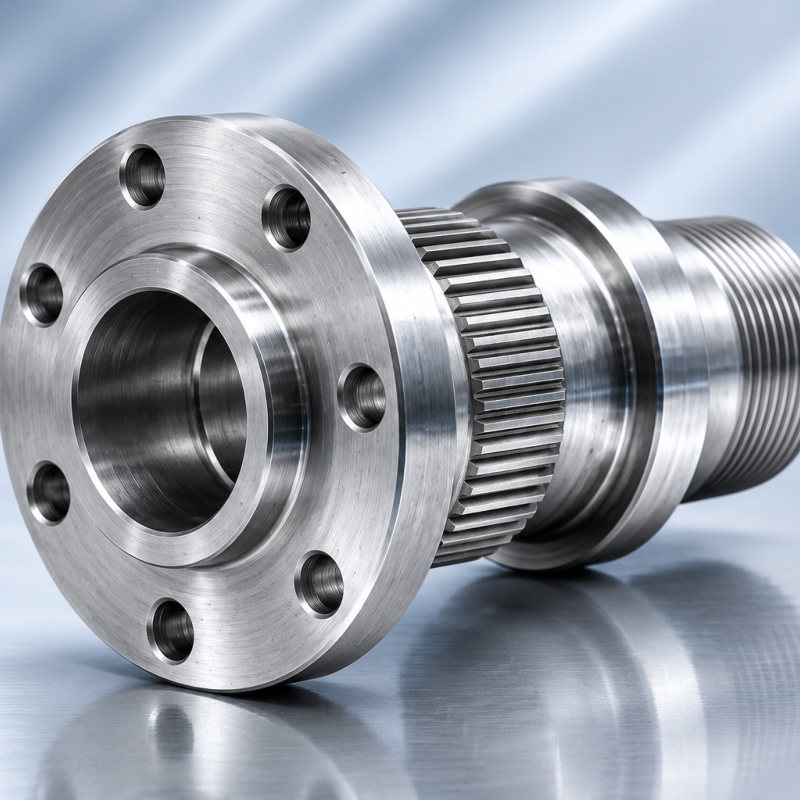
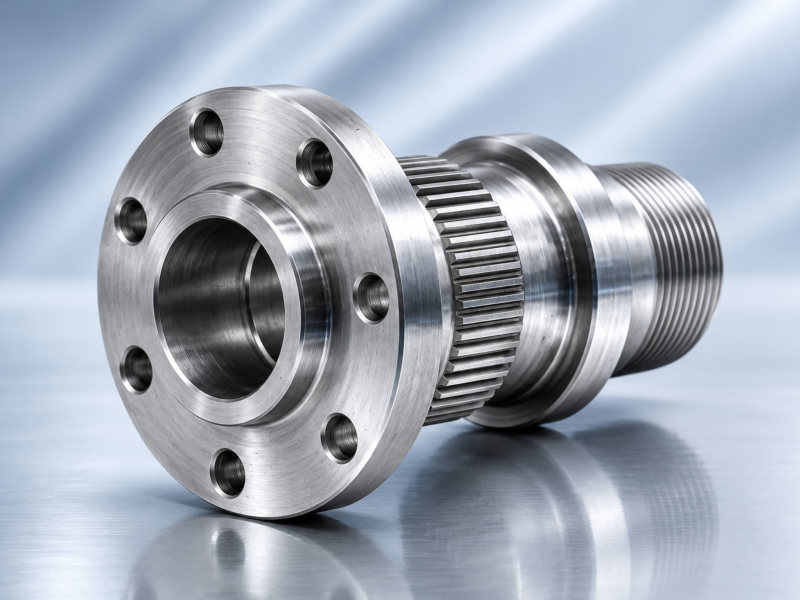
Главная: правки клиента от 10.11 — реалистичные картинки «Как мы работаем», фото в «Мы изготавливаем» целиком, новые фото в «Разделах»

diff --git a/index.html b/index.html
@@ -166,23 +166,23 @@
         </div>
         <div class="make-grid" data-reveal-group>
           <a class="make-card" href="catalog.html#hydraulics" data-reveal>
-            <div class="make-card__photo"><img src="img/products/card/01-uplotneniya.jpg" alt="Уплотнительные кольца из резины и полиуретана" width="800" height="800" loading="lazy"></div>
+            <div class="make-card__photo"><img src="img/products/card/01-uplotneniya.jpg" alt="Уплотнительные кольца из резины и полиуретана" width="800" height="600" loading="lazy"></div>
             <div class="make-card__body"><h3 class="make-card__title" data-i18n="make.1.title">Уплотнения, ремкомплекты, РВД, гидроцилиндры</h3><p class="make-card__sub" data-i18n="make.1.sub">Для гидравлики горной и строительной техники</p></div>
           </a>
           <a class="make-card" href="catalog.html#materials" data-reveal>
-            <div class="make-card__photo"><img src="img/products/card/04-poliuretan-rezina-metall.jpg" alt="Втулка из полиуретана, резиновое уплотнение и стальной фланец" width="800" height="800" loading="lazy"></div>
+            <div class="make-card__photo"><img src="img/products/card/04-poliuretan-rezina-metall.jpg" alt="Втулка из полиуретана, резиновое уплотнение и стальной фланец" width="800" height="600" loading="lazy"></div>
             <div class="make-card__body"><h3 class="make-card__title" data-i18n="make.2.title">Изделия из полиуретана, резины и металла</h3><p class="make-card__sub" data-i18n="make.2.sub">Серийно и штучно, по чертежам заказчика</p></div>
           </a>
           <a class="make-card" href="analogs.html" data-reveal>
-            <div class="make-card__photo"><img src="img/products/card/05-analog-zapchasti.jpg" alt="Стальная деталь с фланцем и шлицами — аналог запчасти" width="800" height="800" loading="lazy"></div>
+            <div class="make-card__photo"><img src="img/products/card/05-analog-zapchasti.jpg" alt="Стальная деталь с фланцем и шлицами — аналог запчасти" width="800" height="600" loading="lazy"></div>
             <div class="make-card__body"><h3 class="make-card__title" data-i18n="make.3.title">Аналоги запчастей для горно-шахтного оборудования</h3><p class="make-card__sub" data-i18n="make.3.sub">Замена оригиналов CAT, Sandvik, Epiroc, Normet</p></div>
           </a>
           <a class="make-card" href="catalog.html#shotcrete" data-reveal>
-            <div class="make-card__photo"><img src="img/products/card/06-torkret-ustanovka.jpg" alt="Торкрет-установка с бункером на раме-салазках" width="800" height="800" loading="lazy"></div>
+            <div class="make-card__photo"><img src="img/products/card/06-torkret-ustanovka.jpg" alt="Торкрет-установка с бункером на раме-салазках" width="800" height="600" loading="lazy"></div>
             <div class="make-card__body"><h3 class="make-card__title" data-i18n="make.4.title">Торкрет-оборудование и комплектующие</h3><p class="make-card__sub" data-i18n="make.4.sub">Установки, запасные части, расходники</p></div>
           </a>
           <a class="make-card" href="#contacts" data-reveal>
-            <div class="make-card__photo"><img src="img/products/card/07-po-chertezham.jpg" alt="Прецизионные стальные детали на верстаке" width="800" height="800" loading="lazy"></div>
+            <div class="make-card__photo"><img src="img/products/card/07-po-chertezham.jpg" alt="Прецизионные стальные детали на верстаке" width="800" height="600" loading="lazy"></div>
             <div class="make-card__body"><h3 class="make-card__title" data-i18n="make.5.title">Изготовление по чертежам</h3><p class="make-card__sub" data-i18n="make.5.sub">Как передать чертёж или образец детали</p></div>
           </a>
         </div>
@@ -204,14 +204,14 @@
             </div>
           </a>
           <a class="link-card" href="production.html" data-reveal>
-            <div class="photo link-card__photo"><img src="img/photo/section-production.jpg" alt="Производственный цех со станками ЧПУ" width="960" height="773" loading="lazy"></div>
+            <div class="photo link-card__photo"><img src="img/photo/section-production.jpg" alt="Сотрудник СЗНП Сибирь у обрабатывающего центра с ЧПУ" width="1200" height="825" loading="lazy"></div>
             <div class="link-card__body">
               <div><h3 class="link-card__title" data-i18n="links.2.title">Собственное производство</h3><p class="link-card__sub" data-i18n="links.2.sub">Оборудование, механическая обработка на ЧПУ</p></div>
               <span class="link-card__arrow" aria-hidden="true"><svg viewBox="0 0 24 24" fill="none" stroke="currentColor" stroke-width="2" stroke-linecap="round" stroke-linejoin="round"><path d="M5 12h14M13 6l6 6-6 6"/></svg></span>
             </div>
           </a>
           <a class="link-card" href="cardan.html" data-reveal>
-            <div class="photo link-card__photo"><img src="img/photo/section-cardan.jpg" alt="Карданный вал с крестовиной" width="1200" height="800" loading="lazy"></div>
+            <div class="photo link-card__photo"><img src="img/photo/section-cardan.jpg" alt="Карданный вал целиком на верстаке" width="1200" height="825" loading="lazy"></div>
             <div class="link-card__body">
               <div><h3 class="link-card__title" data-i18n="links.3.title">Карданный вал</h3><p class="link-card__sub" data-i18n="links.3.sub">Изготовление / восстановление карданных валов</p></div>
               <span class="link-card__arrow" aria-hidden="true"><svg viewBox="0 0 24 24" fill="none" stroke="currentColor" stroke-width="2" stroke-linecap="round" stroke-linejoin="round"><path d="M5 12h14M13 6l6 6-6 6"/></svg></span>
@@ -298,31 +298,31 @@
         </div>
         <ul class="how-grid" data-reveal-group>
           <li class="how-item" data-reveal>
-            <img src="img/icons/how-01-sroki.svg" alt="" width="96" height="96" loading="lazy">
+            <img src="img/icons/how-01-sroki.png" alt="" width="96" height="96" loading="lazy">
             <p data-i18n="how.1">Быстрые сроки изготовления</p>
           </li>
           <li class="how-item" data-reveal>
-            <img src="img/icons/how-02-postavka.svg" alt="" width="96" height="96" loading="lazy">
+            <img src="img/icons/how-02-postavka.png" alt="" width="96" height="96" loading="lazy">
             <p data-i18n="how.2">Оперативная поставка</p>
           </li>
           <li class="how-item" data-reveal>
-            <img src="img/icons/how-03-materialy.svg" alt="" width="96" height="96" loading="lazy">
+            <img src="img/icons/how-03-materialy.png" alt="" width="96" height="96" loading="lazy">
             <p data-i18n="how.3">Высоко&shy;качественные материалы</p>
           </li>
           <li class="how-item" data-reveal>
-            <img src="img/icons/how-04-kontrol.svg" alt="" width="96" height="96" loading="lazy">
+            <img src="img/icons/how-04-kontrol.png" alt="" width="96" height="96" loading="lazy">
             <p data-i18n="how.4">Контроль качества изготовления</p>
           </li>
           <li class="how-item" data-reveal>
-            <img src="img/icons/how-05-nestandart.svg" alt="" width="96" height="96" loading="lazy">
+            <img src="img/icons/how-05-nestandart.png" alt="" width="96" height="96" loading="lazy">
             <p data-i18n="how.5">Изготовление нестандартных деталей</p>
           </li>
           <li class="how-item" data-reveal>
-            <img src="img/icons/how-06-zamena.svg" alt="" width="96" height="96" loading="lazy">
+            <img src="img/icons/how-06-zamena.png" alt="" width="96" height="96" loading="lazy">
             <p data-i18n="how.6">Собственная система замены импортных ремкомплектов на отечественные</p>
           </li>
           <li class="how-item" data-reveal>
-            <img src="img/icons/how-07-chpu.svg" alt="" width="96" height="96" loading="lazy">
+            <img src="img/icons/how-07-chpu.png" alt="" width="96" height="96" loading="lazy">
             <p data-i18n="how.7">Механическая обработка на оборудовании с ЧПУ</p>
           </li>
         </ul>

diff --git a/css/home.css b/css/home.css
@@ -100,7 +100,7 @@
   transition: transform 300ms var(--ease-out), box-shadow 300ms var(--ease-out);
 }
 .make-card:hover { transform: translateY(-4px); box-shadow: var(--shadow-card); }
-.make-card__photo { aspect-ratio: 1 / 1; background: #F3F3F3; overflow: hidden; }
+.make-card__photo { aspect-ratio: 4 / 3; background: #F3F3F3; overflow: hidden; }
 .make-card__photo img { width: 100%; height: 100%; object-fit: cover; transition: transform 500ms var(--ease-out); }
 .make-card:hover .make-card__photo img { transform: scale(1.05); }
 .make-card__body { display: grid; gap: 10px; align-content: start; padding: 22px 24px 28px; }
